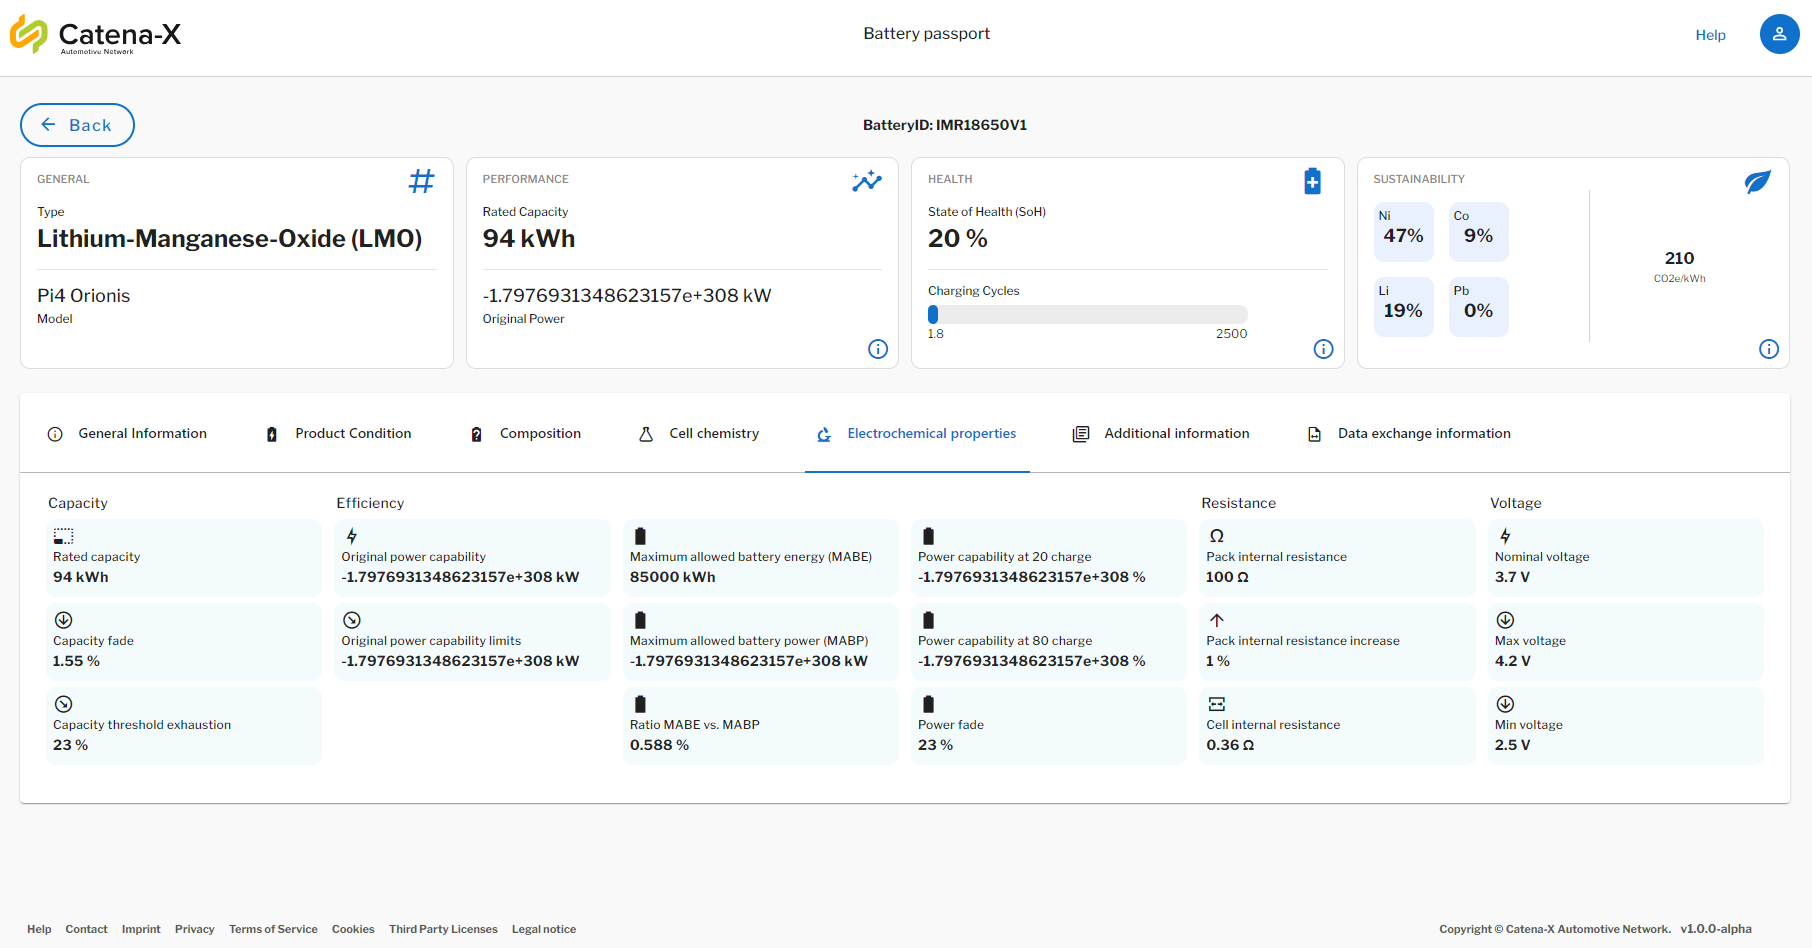
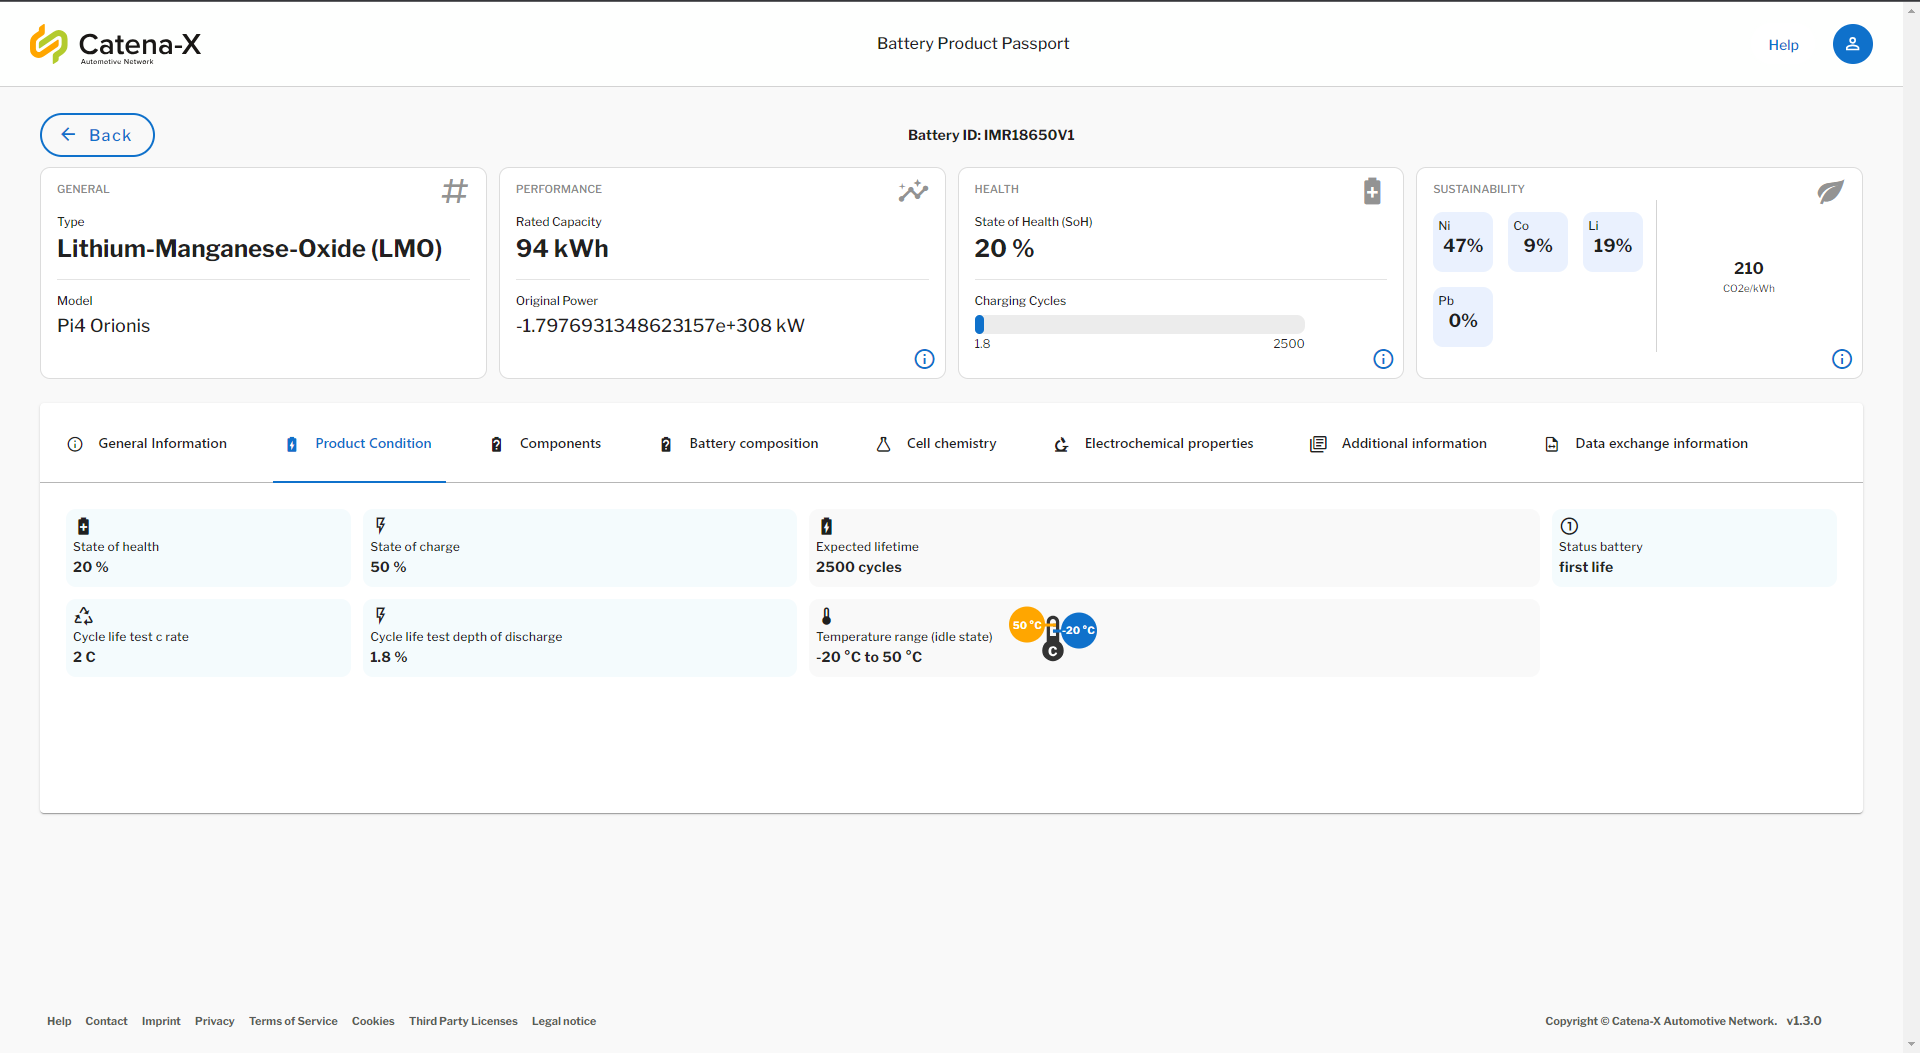
chore: added irs components screenshots and updated the digital product pass view

diff --git a/docs/arc42/Arc42.md b/docs/arc42/Arc42.md
@@ -85,6 +85,12 @@ Latest Revision: Nov 7, 2023
   - [Design Decisions](#design-decisions)
     - [Searching View](#searching-view)
     - [Battery Passport View](#battery-passport-view)
+    - [Digital Product Pass View](#digital-product-pass-view)
+    - [IRS Component Drill Down](#irs-component-drill-down)
+      - [Loading](#loading)
+      - [No Children Available](#no-children-available)
+      - [Tree of Components Available](#tree-of-components-available)
+      - [Error Occurred](#error-occurred)
   - [Quality Requirements](#quality-requirements)
     - [Quality Scenarios](#quality-scenarios)
   - [Risks and Technical Debts](#risks-and-technical-debts)
@@ -530,6 +536,46 @@ The passport view was designed following using Catena-X accordion guidelines.
 ![Battery Passport View - General Information](./media/GraphicBatteryPassportViewGeneralInfo.png)
 
 ![Battery Passport View - Electrochemical properties](./media/GraphicBatteryPassportView.png)
+
+### Digital Product Pass View
+
+Since the [v1.2.0](https://github.com/eclipse-tractusx/digital-product-pass/releases/tag/v1.2.0) release the `Digital Product Pass v1.0.0` Aspect is available to be visualized in the application. In the following example we can visualize a Battery Passport as Digital Product Pass:
+
+![Digital Product Pass - Serialization View](./media/DPPView1.jpg)
+
+![Digital Product Pass - Components View](./media/DPPView2.jpg)
+
+### IRS Component Drill Down
+
+The IRS Drill Down feature is available since the version [v1.3.0](https://github.com/eclipse-tractusx/digital-product-pass/releases/tag/v1.3.0) and it will display an tree of components in the frontend. 
+
+The process of requesting the child components from the IRS takes a while aprox 7 minutes so the user is constantly informed of the progress from the IRS Job.
+
+#### Loading 
+
+When the job is still running there will be displayed a spinner and a message saying that the search for components is going on.
+
+![IRS Component Loading](./media/irs/Loading.jpg)
+
+#### No Children Available
+
+When there is the case that the IRS Job returns a empty relationship array the frontend will display a No child component found warning, this means that the asset has no children available in the `Digital Twin Registries` of the BPN Number found for the current asset in the `BPN Discovery` endpoint.
+
+![IRS Component No Children Available](./media/irs/ChildNotFound.jpg)
+
+#### Tree of Components Available
+
+This is the success case, when there are components available in connection to the digital twin.
+
+In this case the user can click in the child `external link` button to open a new tab and start the search for a the Digital Product Pass
+
+![IRS Component Tree of Components](./media/irs/TreeOfComponents.jpg)
+
+#### Error Occurred
+
+In case the backend is not acesible or any other error ocurred the search for the child components will stop. This means that if the user want to search for the child components again it shall request the passport again since there was an error with this process.
+
+![IRS Component Error Occurred](./media/irs/ErrorOccured.jpg)
 
 ## Quality Requirements
 
